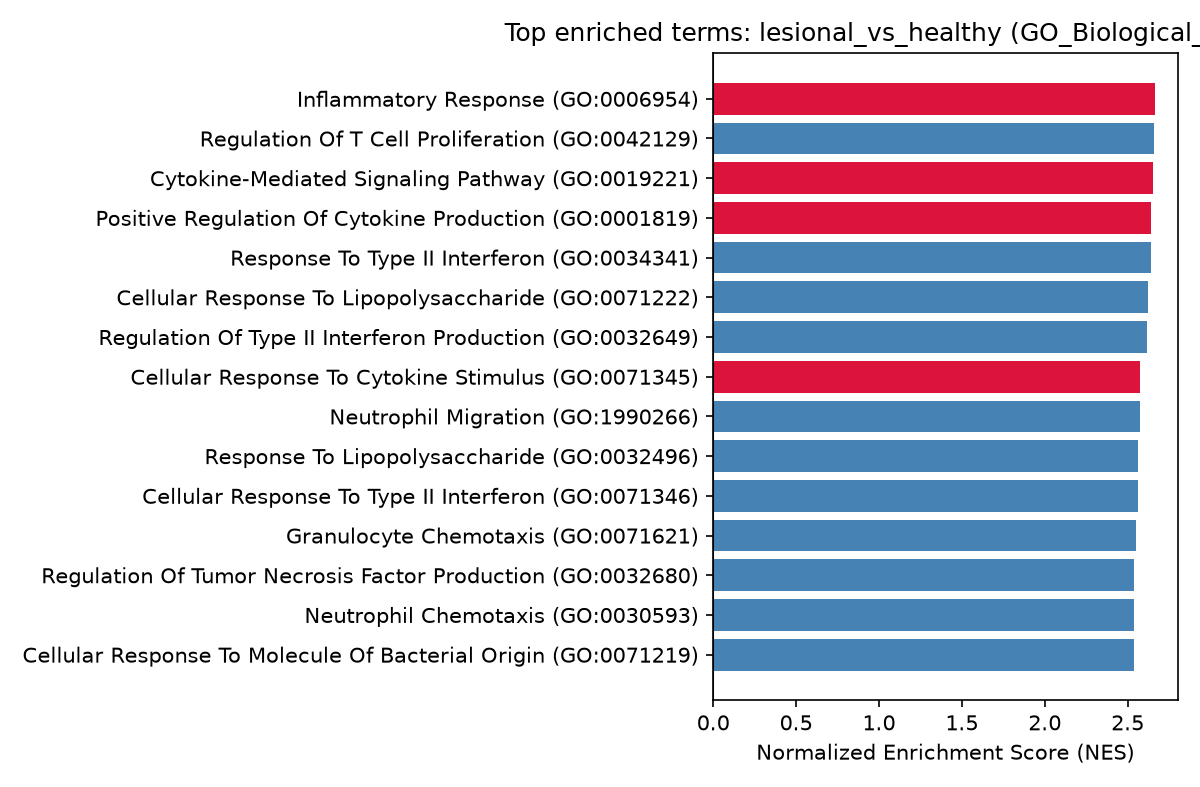
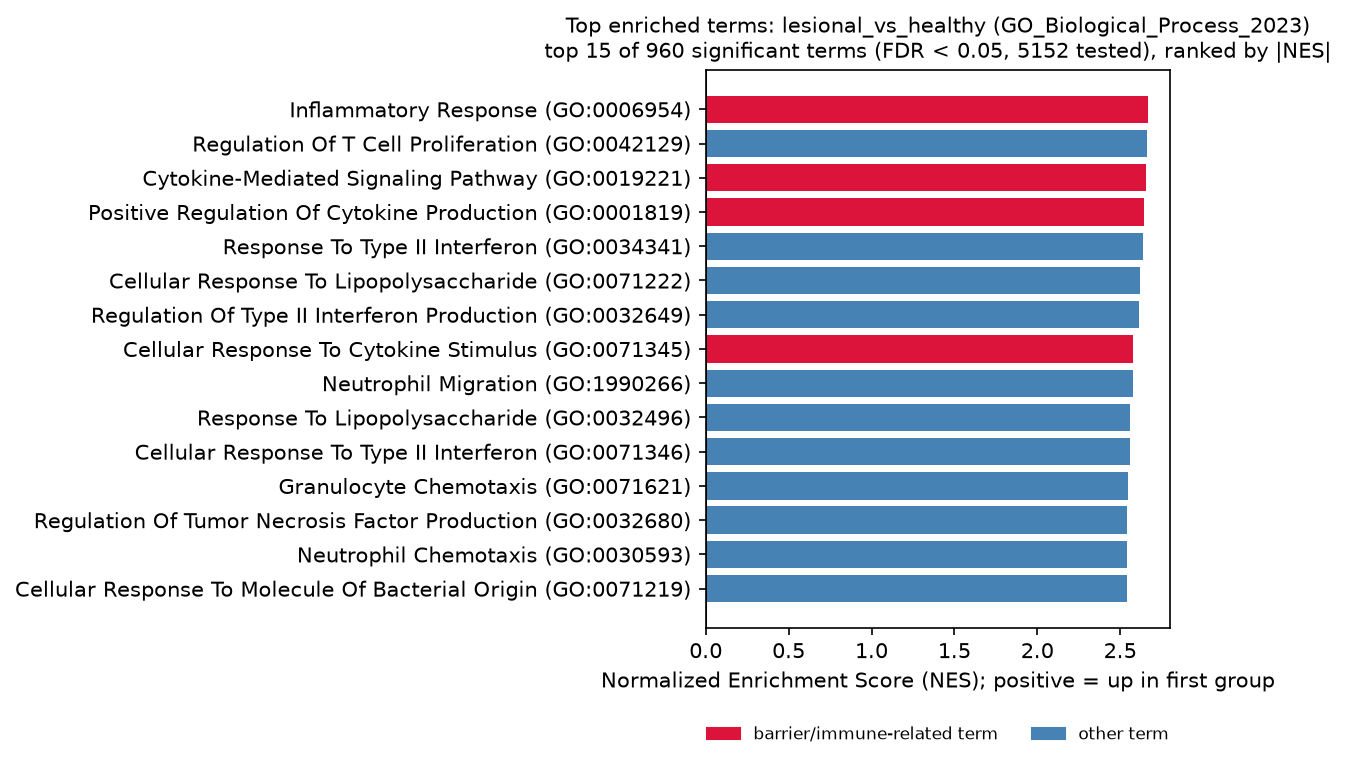
Fix visualizations

diff --git a/scripts/visualize_results.py b/scripts/visualize_results.py
@@ -86,27 +86,48 @@ def plot_heatmap(vst: pd.DataFrame, meta: pd.DataFrame, genes: list):
 
     col_colors = meta.loc[sample_order, "condition"].map(CONDITION_COLORS)
 
+    # Row annotation: which curated category each gene came from
+    def gene_category(gene):
+        if gene in NAMED_BARRIER_GENES:
+            return "barrier marker"
+        if gene in NAMED_IMMUNE_GENES:
+            return "immune marker"
+        return "top DE gene"
+    row_cat_colors = {"barrier marker": "#8172B2", "immune marker": "#DD8452", "top DE gene": "#BBBBBB"}
+    row_colors = pd.Series({g: row_cat_colors[gene_category(g)] for g in panel_z.index})
+
     g = sns.clustermap(
         panel_z, col_cluster=False, row_cluster=True,
-        col_colors=col_colors, cmap="vlag", center=0,
+        col_colors=col_colors, row_colors=row_colors, cmap="vlag", center=0,
         figsize=(12, 8), xticklabels=False,
         cbar_kws={"label": "z-score (VST expression)"},
     )
     g.ax_heatmap.set_ylabel("")
     g.ax_heatmap.set_xlabel(f"Samples (n={len(sample_order)}, grouped by condition)")
+    g.fig.suptitle(f"Curated gene panel ({len(genes)} genes): expression across conditions", y=1.0)
 
+    n_per = meta["condition"].value_counts()
     handles = [plt.Rectangle((0, 0), 1, 1, color=CONDITION_COLORS[c]) for c in CONDITION_ORDER]
-    g.ax_heatmap.legend(handles, CONDITION_ORDER, title="Condition",
-                         bbox_to_anchor=(1.15, 1), loc="upper left", frameon=False)
+    labels = [f"{c} (n={n_per[c]})" for c in CONDITION_ORDER]
+    cond_legend = g.ax_heatmap.legend(handles, labels, title="Condition",
+                                       bbox_to_anchor=(1.08, 1), loc="upper left", frameon=False)
+    g.ax_heatmap.add_artist(cond_legend)
+    cat_handles = [plt.Rectangle((0, 0), 1, 1, color=c) for c in row_cat_colors.values()]
+    cat_legend = g.ax_heatmap.legend(cat_handles, list(row_cat_colors), title="Gene category",
+                        bbox_to_anchor=(1.08, 0.75), loc="upper left", frameon=False)
 
     OUT_HEATMAP.parent.mkdir(parents=True, exist_ok=True)
-    g.savefig(OUT_HEATMAP, dpi=150)
+    g.savefig(OUT_HEATMAP, dpi=150, bbox_inches="tight",
+              bbox_extra_artists=[cond_legend, cat_legend])
     print(f"Saved heatmap -> {OUT_HEATMAP}")
     plt.close()
 
 
 def plot_boxplots(vst: pd.DataFrame, meta: pd.DataFrame, genes: list):
     genes = [g for g in genes if g in vst.columns]
+    de = pd.read_csv(DE_PATH, index_col=0)
+    n_per = meta["condition"].value_counts()
+    tick_labels = [f"{c}\n(n={n_per[c]})" for c in CONDITION_ORDER]
     fig, axes = plt.subplots(1, len(genes), figsize=(4 * len(genes), 4))
     if len(genes) == 1:
         axes = [axes]
@@ -124,13 +145,19 @@ def plot_boxplots(vst: pd.DataFrame, meta: pd.DataFrame, genes: list):
             data=df, x="condition", y="expression", order=CONDITION_ORDER,
             color="black", size=3, alpha=0.5, ax=ax,
         )
-        ax.set_title(gene)
+        row = de.loc[gene]
+        padj = row["padj"]
+        ax.set_title(f"{gene}\nlesional vs. healthy: log2FC={row['log2FoldChange']:+.2f}, "
+                     f"padj={padj:.1e}", fontsize=9)
+        ax.set_xticks(range(len(CONDITION_ORDER)), tick_labels)
         ax.set_xlabel("")
         ax.set_ylabel("VST expression" if ax is axes[0] else "")
 
+    fig.suptitle("Standout genes: VST expression by condition "
+                 "(box = median/IQR, points = individual samples)", y=1.02)
     plt.tight_layout()
     OUT_BOXPLOTS.parent.mkdir(parents=True, exist_ok=True)
-    plt.savefig(OUT_BOXPLOTS, dpi=150)
+    plt.savefig(OUT_BOXPLOTS, dpi=150, bbox_inches="tight")
     print(f"Saved boxplots -> {OUT_BOXPLOTS}")
     plt.close()
 

diff --git a/scripts/qc_pca.py b/scripts/qc_pca.py
@@ -32,7 +32,8 @@ EXCEL_CORRUPTED_GENE_SYMBOLS = ["1-Mar", "2-Mar"]
 
 MIN_TOTAL_COUNT = 10          # gene-level filter: min summed counts across samples
 LOW_LIBRARY_FRACTION = 0.3    # flag samples below this fraction of the median library size
-PCA_OUTLIER_SD = 2.0          # flag samples beyond this many SDs from their group centroid
+CONDITION_COLORS = {"healthy": "#4C9F70", "non-lesional": "#E8A33D", "lesional": "#C44E52"}
+PCA_OUTLIER_SD = 2.0         # flag samples beyond this many SDs from their group centroid
 
 
 def load_data():
@@ -98,7 +99,8 @@ def run_pca(vst_counts: np.ndarray, meta: pd.DataFrame) -> pd.DataFrame:
     return pca_df, var_explained
 
 
-def flag_pca_outliers(pca_df: pd.DataFrame):
+def flag_pca_outliers(pca_df: pd.DataFrame) -> list:
+    flagged = []
     for condition, group in pca_df.groupby("condition"):
         centroid = group[["PC1", "PC2"]].mean()
         dists = np.sqrt(((group[["PC1", "PC2"]] - centroid) ** 2).sum(axis=1))
@@ -106,20 +108,35 @@ def flag_pca_outliers(pca_df: pd.DataFrame):
         outliers = group.index[dists > threshold].tolist()
         if outliers:
             print(f"WARNING: potential PCA outlier(s) in '{condition}' group: {outliers}")
+            flagged += outliers
+    return flagged
 
 
-def plot_pca(pca_df: pd.DataFrame, var_explained: np.ndarray):
+def plot_pca(pca_df: pd.DataFrame, var_explained: np.ndarray, outliers: list):
     plt.figure(figsize=(7, 6))
+    order = ["healthy", "non-lesional", "lesional"]
+    pca_df = pca_df.copy()
+    n_per = pca_df["condition"].value_counts()
+    # put sample counts in the legend labels
+    pca_df["label"] = pca_df["condition"].map(lambda c: f"{c} (n={n_per[c]})")
+    label_order = [f"{c} (n={n_per[c]})" for c in order]
     sns.scatterplot(
-        data=pca_df, x="PC1", y="PC2", hue="condition",
-        style="condition", s=80, alpha=0.85,
+        data=pca_df, x="PC1", y="PC2", hue="label", style="label",
+        hue_order=label_order, style_order=label_order,
+        palette=dict(zip(label_order, [CONDITION_COLORS[c] for c in order])),
+        s=80, alpha=0.85,
     )
+    for sample in outliers:
+        plt.annotate(sample, (pca_df.at[sample, "PC1"], pca_df.at[sample, "PC2"]),
+                     fontsize=8, xytext=(4, 4), textcoords="offset points")
+    plt.legend(title="Condition", fontsize=8)
     plt.xlabel(f"PC1 ({var_explained[0]:.1%} variance)")
     plt.ylabel(f"PC2 ({var_explained[1]:.1%} variance)")
-    plt.title("PCA of VST-normalized expression: AD lesional / non-lesional / healthy")
+    plt.title("PCA of VST-normalized expression: AD lesional / non-lesional / healthy\n"
+              "(labeled points: flagged outliers, >2 SD from group centroid)", fontsize=10)
     plt.tight_layout()
     OUT_PCA_FIGURE.parent.mkdir(parents=True, exist_ok=True)
-    plt.savefig(OUT_PCA_FIGURE, dpi=150)
+    plt.savefig(OUT_PCA_FIGURE, dpi=150, bbox_inches="tight")
     print(f"Saved PCA plot -> {OUT_PCA_FIGURE}")
 
 
@@ -138,12 +155,12 @@ def main():
     vst_counts = normalize_and_vst(counts, meta)
     pca_df, var_explained = run_pca(vst_counts, meta)
 
-    flag_pca_outliers(pca_df)
+    outliers = flag_pca_outliers(pca_df)
 
     pca_df.to_csv(OUT_PCA_TABLE)
     print(f"Saved PCA coordinates -> {OUT_PCA_TABLE}")
 
-    plot_pca(pca_df, var_explained)
+    plot_pca(pca_df, var_explained, outliers)
 
 
 if __name__ == "__main__":

diff --git a/scripts/differential_expression.py b/scripts/differential_expression.py
@@ -66,14 +66,20 @@ def plot_volcano(results: pd.DataFrame):
     plt.figure(figsize=(7, 6))
     not_sig = results[~results["significant"]]
     sig = results[results["significant"]]
+    up = sig[sig["log2FoldChange"] > 0]
+    down = sig[sig["log2FoldChange"] < 0]
 
     plt.scatter(
         not_sig["log2FoldChange"], -np.log10(not_sig["padj"]),
-        s=8, alpha=0.3, color="gray", label="not significant",
+        s=8, alpha=0.3, color="gray", label=f"not significant (n={len(not_sig):,})",
     )
     plt.scatter(
-        sig["log2FoldChange"], -np.log10(sig["padj"]),
-        s=10, alpha=0.6, color="crimson", label="significant",
+        up["log2FoldChange"], -np.log10(up["padj"]),
+        s=10, alpha=0.6, color="crimson", label=f"up in lesional (n={len(up):,})",
+    )
+    plt.scatter(
+        down["log2FoldChange"], -np.log10(down["padj"]),
+        s=10, alpha=0.6, color="steelblue", label=f"down in lesional (n={len(down):,})",
     )
     plt.axhline(-np.log10(PADJ_THRESHOLD), color="black", linestyle="--", linewidth=0.5)
     plt.axvline(LFC_THRESHOLD, color="black", linestyle="--", linewidth=0.5)
@@ -88,11 +94,14 @@ def plot_volcano(results: pd.DataFrame):
 
     plt.xlabel("log2 fold change (lesional vs. healthy)")
     plt.ylabel("-log10(adjusted p-value)")
-    plt.title("Differential expression: AD lesional vs. healthy skin")
-    plt.legend()
+    plt.title("Differential expression: AD lesional vs. healthy skin\n"
+              f"(significant: padj < {PADJ_THRESHOLD}, |log2FC| > {LFC_THRESHOLD:g}; "
+              f"{len(results):,} genes tested)", fontsize=10)
+    plt.legend(loc="upper center", bbox_to_anchor=(0.5, -0.12), ncol=3,
+               fontsize=8, frameon=False)
     plt.tight_layout()
     OUT_VOLCANO.parent.mkdir(parents=True, exist_ok=True)
-    plt.savefig(OUT_VOLCANO, dpi=150)
+    plt.savefig(OUT_VOLCANO, dpi=150, bbox_inches="tight")
     print(f"Saved volcano plot -> {OUT_VOLCANO}")
     plt.close()
 
@@ -104,20 +113,24 @@ def plot_ma(results: pd.DataFrame):
 
     plt.scatter(
         np.log10(not_sig["baseMean"] + 1), not_sig["log2FoldChange"],
-        s=8, alpha=0.3, color="gray", label="not significant",
+        s=8, alpha=0.3, color="gray", label=f"not significant (n={len(not_sig):,})",
     )
     plt.scatter(
         np.log10(sig["baseMean"] + 1), sig["log2FoldChange"],
-        s=10, alpha=0.6, color="crimson", label="significant",
+        s=10, alpha=0.6, color="crimson", label=f"significant (n={len(sig):,})",
     )
     plt.axhline(0, color="black", linewidth=0.5)
+    plt.axhline(LFC_THRESHOLD, color="black", linestyle="--", linewidth=0.5)
+    plt.axhline(-LFC_THRESHOLD, color="black", linestyle="--", linewidth=0.5)
     plt.xlabel("log10(mean expression + 1)")
     plt.ylabel("log2 fold change (lesional vs. healthy)")
-    plt.title("MA plot: AD lesional vs. healthy skin")
-    plt.legend()
+    plt.title("MA plot: AD lesional vs. healthy skin\n"
+              f"(significant: padj < {PADJ_THRESHOLD}, |log2FC| > {LFC_THRESHOLD:g})",
+              fontsize=10)
+    plt.legend(loc="lower right", fontsize=8)
     plt.tight_layout()
     OUT_MA.parent.mkdir(parents=True, exist_ok=True)
-    plt.savefig(OUT_MA, dpi=150)
+    plt.savefig(OUT_MA, dpi=150, bbox_inches="tight")
     print(f"Saved MA plot -> {OUT_MA}")
     plt.close()
 

diff --git a/scripts/secondary_comparison.py b/scripts/secondary_comparison.py
@@ -65,11 +65,17 @@ def plot_volcano(results: pd.DataFrame, title: str, x_label: str, out_path: Path
     plt.figure(figsize=(7, 6))
     not_sig = results[~results["significant"]]
     sig = results[results["significant"]]
+    up = sig[sig["log2FoldChange"] > 0]
+    down = sig[sig["log2FoldChange"] < 0]
+    # x_label looks like "log2 fold change (A vs. B)"; A is the numerator group
+    numerator = x_label.split("(")[-1].split(" vs.")[0]
 
     plt.scatter(not_sig["log2FoldChange"], -np.log10(not_sig["padj"]),
-                s=8, alpha=0.3, color="gray", label="not significant")
-    plt.scatter(sig["log2FoldChange"], -np.log10(sig["padj"]),
-                s=10, alpha=0.6, color="crimson", label="significant")
+                s=8, alpha=0.3, color="gray", label=f"not significant (n={len(not_sig):,})")
+    plt.scatter(up["log2FoldChange"], -np.log10(up["padj"]),
+                s=10, alpha=0.6, color="crimson", label=f"up in {numerator} (n={len(up):,})")
+    plt.scatter(down["log2FoldChange"], -np.log10(down["padj"]),
+                s=10, alpha=0.6, color="steelblue", label=f"down in {numerator} (n={len(down):,})")
     plt.axhline(-np.log10(PADJ_THRESHOLD), color="black", linestyle="--", linewidth=0.5)
     plt.axvline(LFC_THRESHOLD, color="black", linestyle="--", linewidth=0.5)
     plt.axvline(-LFC_THRESHOLD, color="black", linestyle="--", linewidth=0.5)
@@ -81,11 +87,13 @@ def plot_volcano(results: pd.DataFrame, title: str, x_label: str, out_path: Path
 
     plt.xlabel(x_label)
     plt.ylabel("-log10(adjusted p-value)")
-    plt.title(title)
-    plt.legend()
+    plt.title(f"{title}\n(significant: padj < {PADJ_THRESHOLD}, |log2FC| > {LFC_THRESHOLD:g}; "
+              f"{len(results):,} genes tested)", fontsize=10)
+    plt.legend(loc="upper center", bbox_to_anchor=(0.5, -0.12), ncol=3,
+               fontsize=8, frameon=False)
     plt.tight_layout()
     out_path.parent.mkdir(parents=True, exist_ok=True)
-    plt.savefig(out_path, dpi=150)
+    plt.savefig(out_path, dpi=150, bbox_inches="tight")
     print(f"Saved volcano plot -> {out_path}")
     plt.close()
 

diff --git a/scripts/enrichment_analysis.py b/scripts/enrichment_analysis.py
@@ -88,11 +88,20 @@ def plot_top_terms(results: pd.DataFrame, comparison_name: str, library: str, ou
     plt.figure(figsize=(8, max(3, 0.35 * len(top))))
     plt.barh(top["Term"], top["NES"], color=colors)
     plt.axvline(0, color="black", linewidth=0.5)
-    plt.xlabel("Normalized Enrichment Score (NES)")
-    plt.title(f"Top enriched terms: {comparison_name} ({library})")
+    plt.xlabel("Normalized Enrichment Score (NES); positive = up in first group")
+    plt.title(f"Top enriched terms: {comparison_name} ({library})\n"
+              f"top {len(top)} of {len(sig)} significant terms (FDR < 0.05, "
+              f"{len(results)} tested), ranked by |NES|", fontsize=10)
+    plt.legend(
+        [plt.Rectangle((0, 0), 1, 1, color="crimson"),
+         plt.Rectangle((0, 0), 1, 1, color="steelblue")],
+        ["barrier/immune-related term", "other term"],
+        loc="upper center", bbox_to_anchor=(0.5, -0.15), ncol=2,
+        fontsize=8, frameon=False,
+    )
     plt.tight_layout()
     out_path.parent.mkdir(parents=True, exist_ok=True)
-    plt.savefig(out_path, dpi=150)
+    plt.savefig(out_path, dpi=150, bbox_inches="tight")
     print(f"Saved plot -> {out_path}")
     plt.close()
 
